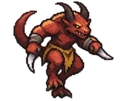
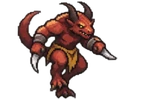
v0.9.12 : Démon-lézard en 30 images (repos, geste d'attente, marche, deux attaques alternées), découpe calée sur les pieds
Claude-Session: https://claude.ai/code/session_01Qu7CnrjJEbnLbDp6zknZA7

diff --git a/index.html b/index.html
@@ -310,7 +310,7 @@ body.paused #cv{filter:grayscale(1) brightness(.72) contrast(1.05);transition:fi
       <div class="go-row"><button class="btn hot" id="bGo"><img class="ic" alt="" src="img/i/fire.webp">Allumer les feux</button><button class="btn" id="bRules"><img class="ic" alt="" src="img/i/menu.webp">Comment jouer</button></div></div>
     <div class="hm-sec hm-solo"><h4><img class="ic" alt="" src="img/i/crit.webp">Solo Defender</h4>
       <div class="solo-row"><img alt="" src="img/u/gardien_atk.webp"><p>Un seul Gardien, sans bâtir ni recruter. Cliquez sur la carte pour le déplacer, sur une créature pour la cibler : il frappe tout seul ce qui l'approche. Tenez le plus de nuits possible. <span id="soloRec"></span></p></div>
-      <div class="diffs solo-pick" id="soloPick"><button class="btn" data-skin=""><b><img class="ic" alt="" src="img/u/gardien_idle.webp">Gardien</b><small>Épée et bouclier</small></button><button class="btn" data-skin="lezard"><b><img class="ic" alt="" src="img/a/lezard/00.webp">Démon-lézard</b><small>Nouveau · animations complètes</small></button></div>
+      <div class="diffs solo-pick" id="soloPick"><button class="btn" data-skin=""><b><img class="ic" alt="" src="img/u/gardien_idle.webp">Gardien</b><small>Épée et bouclier</small></button><button class="btn" data-skin="lezard"><b><img class="ic" alt="" src="img/a/lezard/b00.webp">Démon-lézard</b><small>Nouveau · animations complètes</small></button></div>
       <button class="btn hot" id="bSolo"><img class="ic" alt="" src="img/i/crit.webp">Lancer Solo Defender</button></div>
     <div class="hm-sec"><h4><img class="ic" alt="" src="img/i/save.webp">Parties sauvegardées</h4><div id="hmSaves"></div></div>
   </div>
@@ -361,8 +361,10 @@ for(const n of ['hunt','well','market','granary','tavern','chapel','siege','ston
 const okI=i=>i&&i.complete&&i.naturalWidth;
 function spr(g,n,x,bottom,w,cx){const im=IMG['b_'+n];if(!okI(im))return false;const h=w*im.naturalHeight/im.naturalWidth;g.drawImage(im,x-w/2,cx?bottom-h/2:bottom-h,w,h);return true}
 // Persos animés en grille (tools/anim.py) : ligne 0 repos, 1 marche, 2 attaque, 3 touché + mort. w,h = taille fichier, ax/ay = ancrage des pieds.
-const ANIM={lezard:{w:121,h:101,ax:.466,ay:1,n:'Démon-lézard'}};
-for(const n in ANIM)for(let r=0;r<4;r++)for(let c=0;c<4;c++){const i=new Image();i.src='img/a/'+n+'/'+r+c+'.webp';IMG['a_'+n+'_'+r+c]=i}
+// Chaque animation : planche s (préfixe des fichiers), ligne r, n images (ou liste f), durée d'une image d (s de jeu). atk peut être une liste (attaques alternées).
+const ANIM={lezard:{n:'Démon-lézard',s:{'':{w:145,h:99,ax:.435,ay:.991},b:{w:134,h:92,ax:.402,ay:.986}},
+  idle:{s:'b',r:0,n:6,d:.7},fid:{s:'b',r:1,n:6,d:.3},walk:{s:'b',r:2,n:6},atk:[{s:'b',r:3,n:6},{s:'b',r:4,n:6}],hurt:{s:'',r:3,f:[0]},die:{s:'',r:3,f:[1,2,3]}}};
+for(const n in ANIM){const A=ANIM[n];for(const k of ['idle','fid','walk','atk','hurt','die'])for(const a of [].concat(A[k]||[])){a.F=(a.f||[...Array(a.n).keys()]).map(c=>a.s+a.r+c);for(const f of a.F)if(!IMG['a_'+n+'_'+f]){const i=new Image();i.src='img/a/'+n+'/'+f+'.webp';IMG['a_'+n+'_'+f]=i}}}
 const UP=['idle','w1','w2','atk'];for(const n of ['gardien','fusilier','mystique','tellu','batisseur','bucheron','mineur','fermier','repar','inge','soigneur','cavalier','ulric','vesna','ardente','kristal','isolde','sauge','borr','morne','gris','thaddeus','arbalet','pavois','pretre','sapeur','porteur'])for(const p of UP){const i=new Image();i.src='img/u/'+n+'_'+p+'.webp';IMG['u_'+n+'_'+p]=i}
 const ic=(n)=>`<img class="ic" alt="" src="img/i/${IMAP[n]||n}.webp">`;
 
@@ -1886,9 +1888,10 @@ const ACH=[
 function metaTick(nightKills){const m=metaG();m.ach=m.ach||{};m.kills=(m.kills||0)+(nightKills||0);m.best=Math.max(m.best||0,S.day);
   for(const u of S.units)if(!u.worker&&(u.kills||0)>((m.star&&m.star.k)||0))m.star={t:u.t,n:u.d.n,k:u.kills,lv:u.lv,day:S.day,hero:!!u.hero};
   for(const a of ACH)if(!m.ach[a.id]&&a.f(S,m)){m.ach[a.id]=Date.now();toast('Haut fait débloqué : '+a.n+' !')}metaS(m)}
-const VERSION='0.9.11';
+const VERSION='0.9.12';
 document.querySelectorAll('[data-ver]').forEach(e=>e.textContent='v'+VERSION);document.title='Les Nuits de Lamuline · v'+VERSION;
 const NOTES=[
+  ['v0.9.12','Démon-lézard plus vivant',['Nouvelle planche du Démon-lézard : repos, geste d\'attente (il fait tourner sa dague), marche en 6 images','Deux attaques qui alternent : taille par le haut et estoc bas','Découpe des planches calée sur les pieds : le perso ne tremble plus']],
   ['v0.9.11','Repos plus naturel',['Persos animés : au repos, une seule pose avec une respiration douce au lieu d\'images trop différentes enchaînées']],
   ['v0.9.10','Persos animés',['Nouveau format de sprites animés : 16 images par perso (repos, marche, attaque, touché, mort)','Solo Defender : choix du héros sur l\'accueil, dont le Démon-lézard entièrement animé','Mort animée : le héros s\'effondre et reste au sol jusqu\'à sa relève']],
   ['v0.9.9','Nouveau mode : Solo Defender',['Solo Defender, depuis l\'accueil : un seul Gardien, sans bâtir ni recruter','Clic sur la carte : le Gardien s\'y rend ; clic sur une créature : il la prend pour cible ; il frappe seul tout ce qui l\'approche','La caméra le suit (glisser la carte la libère, le bouton du cadre la recentre)','À chaque aube : un bienfait parmi trois (PV, dégâts, dés, DEF, vitesse, moulinet, soif de sang, donjon…) et ses talents aux niveaux 3 et 5','À terre, il se relève au donjon après quelques secondes : le donjon doit tenir seul','Hordes réduites, une entrée de plus aux nuits 5, 10 et 15, boss toutes les 5 nuits ; record de nuits gardé sur l\'accueil']],
@@ -2130,16 +2133,20 @@ function drawBld0(g,b,t){
   if(!b.d.trap&&(b.fire>0||(b.hp<b.max*.3&&FLAM.has(b.t)))){const n=b.fire>0?3:1;for(let k=0;k<n;k++)fire(g,x+(k-(n-1)/2)*12*s,top+12+k%2*6,.7+.2*s,t+k)}
 }
 const TOOL={porteur:'bucket',soigneur:'staff',batisseur:'mallet',bucheron:'axe',mineur:'pick',fermier:'fork',repar:'hammer',inge:'wrench'};
-function drawAnim(g,u,t){const A=ANIM[u.skin],c=S.clock||0;let r=0,k=0,al=1;
-  if(u.atk>(u._la||0)+1e-6)u._as=c;u._la=u.atk;
-  if(u.down>0){const e=c-(u.downAt||c);r=3;k=e<.3?0:Math.min(3,1+Math.floor((e-.3)/.3));if(u.down<1.5)al=Math.max(0,u.down/1.5)}
-  else if(u._as!==undefined&&c-u._as<.8){r=2;k=Math.min(3,Math.floor((c-u._as)/.2))}
-  else if(u.hurtT&&c-u.hurtT<.25){r=3;k=0}
-  else if(u.walk>0){r=1;k=Math.floor(u.walk/2.4)%4}
-  else{r=0;const L_=A.idle||[0];k=L_[Math.floor(c/1.1)%L_.length]}
-  const im=IMG['a_'+u.skin+'_'+r+k];if(!okI(im))return;const w=A.w/2,h=A.h/2;
+function drawAnim(g,u,t){const A=ANIM[u.skin],c=S.clock||0;let a=A.idle,k=0,al=1,br=0;
+  if(u.atk>(u._la||0)+1e-6){u._as=c;u._ak=(u._ak||0)+1}u._la=u.atk;
+  const atk=[].concat(A.atk),ak=atk[(u._ak||0)%atk.length],ad=ak.d||.15;
+  if(u.down>0){const e=c-(u.downAt||c);if(e<.3)a=A.hurt;else{a=A.die;k=Math.floor((e-.3)/.3)}if(u.down<1.5)al=Math.max(0,u.down/1.5)}
+  else if(u._as!==undefined&&c-u._as<ak.F.length*ad){a=ak;k=Math.floor((c-u._as)/ad)}
+  else if(u.hurtT&&c-u.hurtT<.25)a=A.hurt;
+  else if(u.walk>0){a=A.walk;k=Math.floor(u.walk/1.7);u._fn=c+12+Math.random()*8}
+  else{if(!u._fn)u._fn=c+10+Math.random()*8;
+    if(A.fid&&c>=u._fn&&!(u._fs>=u._fn)){u._fs=c}
+    if(A.fid&&u._fs!==undefined&&c-u._fs<A.fid.F.length*A.fid.d){a=A.fid;k=Math.floor((c-u._fs)/A.fid.d)}
+    else{if(u._fs!==undefined&&u._fs>=u._fn)u._fn=c+12+Math.random()*8;const n=A.idle.F.length,d=A.idle.d||.7;if(n>1){const q=Math.floor(c/d)%(2*n-2);k=q<n?q:2*n-2-q}else br=Math.sin(c*2.2+u.x)}}
+  const F=a.F,key=a===A.walk?F[k%F.length]:F[Math.min(k,F.length-1)],M_=A.s[a.s],im=IMG['a_'+u.skin+'_'+key];if(!okI(im))return;const w=M_.w/2,h=M_.h/2;
   if(!u._gh&&!(u.down>0)){softSh(g,u.x,u.y+1,12,4.2,.45);const p=.45+Math.sin(t*3)*.2;g.strokeStyle=`rgba(255,210,122,${p})`;g.lineWidth=1.6;g.beginPath();g.ellipse(u.x,u.y+1,15,6,0,0,7);g.stroke()}
-  g.save();g.globalAlpha*=al;g.translate(u.x,u.y);g.scale(u.face||1,1);if(r===0){const br=Math.sin(c*2.2+u.x);g.scale(1-br*.006,1+br*.014)}g.drawImage(im,-A.ax*w,-A.ay*h+3,w,h);g.restore();
+  g.save();g.globalAlpha*=al;g.translate(u.x,u.y);g.scale(u.face||1,1);if(br)g.scale(1-br*.006,1+br*.014);g.drawImage(im,-M_.ax*w,-M_.ay*h+3,w,h);g.restore();
   if(!u._gh&&!(u.down>0))lvBadge(g,u,-h*.8)}
 function drawUnit(g,u,t){
   if(u.skin&&ANIM[u.skin]){if(!u.hidden||u.down>0)drawAnim(g,u,t);return}
@@ -2687,7 +2694,7 @@ function soloHud(force){
   const el=$('soloHud');if(!S.solo){el.classList.remove('on');return}el.classList.add('on');const u=soloU();if(!u)return;
   const hp=Math.max(0,u.hp)/u.max,xp0=u.lv>1?xpNeed(u.lv-1):0,xp1=xpNeed(u.lv),xf=u.lv>=10?1:(u.xp-xp0)/(xp1-xp0);
   const bs=Object.keys(S.boon||{}).filter(k=>S.boon[k]).map(k=>`<i title="${BOONS[k].n} : ${BOONS[k].d}"><img class="ic" alt="" src="img/i/${BOONS[k].i}.webp">${S.boon[k]>1?S.boon[k]:''}</i>`).join('');
-  const h=`<img class="sp" alt="" src="${u.skin?'img/a/'+u.skin+'/00.webp':'img/u/gardien_idle.webp'}"><div class="s-b"><div class="s-n"><b>${u.vet||'Gardien'}</b><span>niv. ${u.lv}</span><span>${ic('skull')} ${u.kills||0}</span>${u.down>0?`<span class="s-dn">À terre · ${Math.ceil(u.down/TIME)} s</span>`:''}</div>
+  const h=`<img class="sp" alt="" src="${u.skin?'img/a/'+u.skin+'/b00.webp':'img/u/gardien_idle.webp'}"><div class="s-b"><div class="s-n"><b>${u.vet||'Gardien'}</b><span>niv. ${u.lv}</span><span>${ic('skull')} ${u.kills||0}</span>${u.down>0?`<span class="s-dn">À terre · ${Math.ceil(u.down/TIME)} s</span>`:''}</div>
     <div class="s-bar hp"><i style="width:${(hp*100).toFixed(1)}%"></i><em>${Math.ceil(Math.max(0,u.hp))} / ${Math.round(u.max)}</em></div><div class="s-bar xp"><i style="width:${(Math.max(0,Math.min(1,xf))*100).toFixed(1)}%"></i></div>
     <div class="s-bl">${bs||'<small>Les bienfaits choisis à l\'aube s\'affichent ici.</small>'}</div></div><button class="btn sq" id="soloC" title="Recentrer sur le Gardien">${ic('house')}</button>`;
   if(force||el._h!==h){el.innerHTML=h;el._h=h;const c=$('soloC');if(c)c.onclick=()=>{S.follow=1;centerOn(u.x,u.y)}}

diff --git a/tools/anim.py b/tools/anim.py
@@ -1,14 +1,14 @@
 """Découpe d'une planche d'animation en grille (une ligne = une animation) pour Les Nuits de Lamuline.
 
 Usage :
-  python3 tools/anim.py planche.png nom hauteur [lignes colonnes]
-    -> img/a/<nom>/<r><c>.webp  (r = ligne, c = colonne, à partir de 0)
+  python3 tools/anim.py planche.png nom hauteur [lignes colonnes [planche]]
+    -> img/a/<nom>/<planche><r><c>.webp  (r = ligne, c = colonne, à partir de 0 ; planche = préfixe, vide par défaut)
 
 Format de planche attendu (prompt dans docs/prompts-sprites.md) : 4 lignes x 4 colonnes, cases égales,
 fond transparent (un fond blanc uni est retiré automatiquement), perso tourné vers la droite.
   ligne 0 : repos · ligne 1 : marche · ligne 2 : attaque · ligne 3 : touché puis mort (3 images)
-Chaque case est découpée telle quelle puis toutes sont recadrées sur le MÊME rectangle,
-ce qui garde le perso immobile d'une image à l'autre (pas de tremblement).
+Les cases sont coupées au milieu des espaces vides, puis chaque image est calée sur ses pieds
+dans un rectangle commun : le perso ne tremble pas d'une image à l'autre.
 hauteur = hauteur de la silhouette au repos en pixels "écran x2" (le jeu dessine à la moitié).
 Affiche la ligne à coller dans ANIM (index.html).
 """
@@ -27,26 +27,46 @@ def load(path):
   a[..., 3] = np.where(a[..., 3] < 40, 0, a[..., 3])
   return a
 
+def cuts(m, axis, n):
+  """Coupe au milieu de la bande vide la plus proche de chaque limite régulière (grilles un peu irrégulières)."""
+  prof = m.any(axis=axis); L = len(prof); out = [0]
+  for k in range(1, n):
+    b = round(k * L / n); best = None
+    for x in range(max(1, b - L // n // 2), min(L - 1, b + L // n // 2)):
+      if prof[x]: continue
+      x0 = x
+      while x0 > 0 and not prof[x0 - 1]: x0 -= 1
+      x1 = x
+      while x1 < L - 1 and not prof[x1 + 1]: x1 += 1
+      c = (x0 + x1) // 2
+      if best is None or abs(c - b) < abs(best - b): best = c
+    out.append(best if best is not None else b)
+  out.append(L); return out
+
 if __name__ == '__main__':
   path, name, H = sys.argv[1], sys.argv[2], int(sys.argv[3])
   R, C = (int(sys.argv[4]), int(sys.argv[5])) if len(sys.argv) > 5 else (4, 4)
-  a = load(path); h, w = a.shape[:2]; ch, cw = h / R, w / C
-  cells = [[a[round(r * ch):round((r + 1) * ch), round(c * cw):round((c + 1) * cw)] for c in range(C)] for r in range(R)]
-  # rectangle commun à toutes les cases
-  y0 = x0 = 10 ** 9; y1 = x1 = 0
+  P = sys.argv[6] if len(sys.argv) > 6 else ''
+  a = load(path); h, w = a.shape[:2]
+  ys_, xs_ = cuts(a[..., 3] > 0, 1, R), cuts(a[..., 3] > 0, 0, C)
+  cells = [[a[ys_[r]:ys_[r + 1], xs_[c]:xs_[c + 1]] for c in range(C)] for r in range(R)]
+  # chaque image est calée sur ses pieds (bas de la silhouette, milieu des appuis) : pas de tremblement
+  info = []
   for row in cells:
-    for c in row:
-      ys, xs = np.nonzero(c[..., 3] > 0)
-      if len(ys): y0, y1, x0, x1 = min(y0, ys.min()), max(y1, ys.max()), min(x0, xs.min()), max(x1, xs.max())
-  # échelle d'après la silhouette au repos (case 0,0)
-  ys, xs = np.nonzero(cells[0][0][..., 3] > 0); idleH = ys.max() - ys.min() + 1
-  s = H / idleH
-  # point d'ancrage = milieu des pieds au repos
-  foot = xs[ys >= ys.max() - idleH * .12]; ax = (foot.mean() - x0) / (x1 - x0 + 1); ay = (ys.max() - y0 + 1) / (y1 - y0 + 1)
+    for cell in row:
+      ys, xs = np.nonzero(cell[..., 3] > 0)
+      if not len(ys): info.append(None); continue
+      hh = ys.max() - ys.min() + 1; foot = xs[ys >= ys.max() - hh * .12]
+      info.append((cell, foot.mean(), ys.max(), xs.min(), xs.max(), ys.min()))
+  i0 = info[0]; idleH = i0[2] - i0[5] + 1; s = H / idleH
+  L_ = max(x[1] - x[3] for x in info if x); Rr = max(x[4] - x[1] for x in info if x); U_ = max(x[2] - x[5] for x in info if x)
+  CW, CH = int(L_ + Rr + 3), int(U_ + 3)
   os.makedirs(f'img/a/{name}', exist_ok=True)
-  W2, H2 = round((x1 - x0 + 1) * s), round((y1 - y0 + 1) * s)
+  W2, H2 = round(CW * s), round(CH * s); ax = (L_ + 1) / CW; ay = (U_ + 1) / CH
+  k = 0
   for r, row in enumerate(cells):
     for c, cell in enumerate(row):
-      im = Image.fromarray(cell[y0:y1 + 1, x0:x1 + 1]).resize((W2, H2), Image.LANCZOS)
-      im.save(f'img/a/{name}/{r}{c}.webp', quality=92)
-  print(f"  {name}:{{w:{W2},h:{H2},ax:{ax:.3f},ay:{ay:.3f}}},")
+      x = info[k]; k += 1; cv = Image.new('RGBA', (CW, CH), (0, 0, 0, 0))
+      if x: cv.paste(Image.fromarray(cell), (int(round(L_ + 1 - x[1])), int(U_ + 1 - x[2])), Image.fromarray(cell))
+      cv.resize((W2, H2), Image.LANCZOS).save(f'img/a/{name}/{P}{r}{c}.webp', quality=92)
+  print(f"  planche '{P}' : {{w:{W2},h:{H2},ax:{ax:.3f},ay:{ay:.3f}}}")

diff --git a/CLAUDE.md b/CLAUDE.md
@@ -39,7 +39,7 @@ Développé d'abord dans Claude (artefact, V9.5), puis dans ce dépôt (v0.9.x).
 - **Unités v0.9.7** : `etendard`/`tambour` (auras dans la boucle des auras, `AURA_R`), `chien` + bâtiment `kennel` (dessinés en procédural : `drawDog`, `drawKennel`, en attendant des sprites). Talents `TAL[type][3|5]` → `u.tal`, `hasT(u,k)`, appliqués dans `us()` / `meleeHit()` / `impact()`. Vétérans `makeVet` (niv. 4, `u.vet`, `u.trait`, `VTR`). Ultime des héros `u.ult` (0–100), `useUlt`, `u.furyT`.
 - **Économie v0.9.7** : rations à l'aube (`rations()`, `S.famine`), os `S.res.os` (`boneDrop`, Ossuaire `BONE`/`S.bone` à l'Armurerie), expéditions `EXPD`/`S.exps`/`u.exp` (`expOpen`, `expStep`), reliques `RELICS` (`CFG.relics` → `S.relics`, `hasR`, emplacements `relicSlots`), défis de départ `MODS` (`CFG.mods` → `S.mods`, `hasMod`, multiplicateur de score).
 - **Solo Defender v0.9.9** : `S.solo`, lancé par `#bSolo` → `newSolo()` (body.solo masque la barre du bas, les ressources, le défi). Un seul Gardien `u.solo` (`soloU()`), stats ×2,4 PV ×1,5 dégâts + bienfaits `BOONS`/`S.boon` (`bn(k)`, `soloStats` dans `us()`), clic → `soloTap` (déplacement ou `u.focus`), caméra `soloCam` (`S.follow`), à terre `soloDown`/`u.down` puis relève au donjon, aube `soloDawn` → `soloPick` (talent puis bienfait), fin `soloEnd`, record `lamuline-solo-best`. Hordes ×0,3 (`hBudget`), entrées 1→4 aux nuits 5/10/15, boss toutes les 5 nuits à 30 % de PV, pas de sauvegarde.
-- **Persos animés v0.9.10** : planche 4×4 découpée par `tools/anim.py` → `img/a/<nom>/<ligne><col>.webp` (0 repos, 1 marche, 2 attaque, 3 touché + mort) ; méta dans `ANIM` (taille, ancrage des pieds), dessin `drawAnim` si `u.skin`. Utilisé par le héros du Solo (`CFG.soloSkin`, choix sur l'accueil). Prompt type dans `docs/prompts-sprites.md`.
+- **Persos animés v0.9.12** : planches en grille découpées par `tools/anim.py planche.png nom 84 lignes colonnes préfixe` (cases coupées au milieu des vides, images calées sur les pieds) → `img/a/<nom>/<préfixe><ligne><col>.webp`. `ANIM[nom]` : `s` = méta par planche (taille, ancrage), animations `idle` (va-et-vient lent), `fid` (geste d'attente toutes les 6–10 s), `walk`, `atk` (liste = attaques alternées), `hurt`, `die`, chacune `{s,r,n|f,d}`. Dessin `drawAnim` si `u.skin` ; héros du Solo (`CFG.soloSkin`). Prompt dans `docs/prompts-sprites.md`.
 - **Météo / traces** : `S.wx` (`rollWx`, `WX`, `wxSpd`, `wxRng`) ; `decal()`/`drawDecals()` (sang, brûlure, terre) effacées à l'aube ; cadavres gardés toute la nuit.
 - **Son** : WebAudio synthétisé, aucun fichier : `sfx(nom,x,y)` (table `SFX`, anti-rafale `SFXGAP`), musique générative `musTick()` ; volumes `CFG.mus`, `CFG.sfx`, `CFG.mute`.
 - **Journal / stats** : `jlog(texte,type)` → `S.log`, tableau de chasse `jKill` → `S.jk[jour]` ; historique `S.hist` (graphiques `chartSvg`), palmarès `S.fame` ; stats globales `metaG().g` via `PEND` + `metaFlush()`. Rapport de bug `bugReport()` (erreurs capturées dans `ERRS`).
